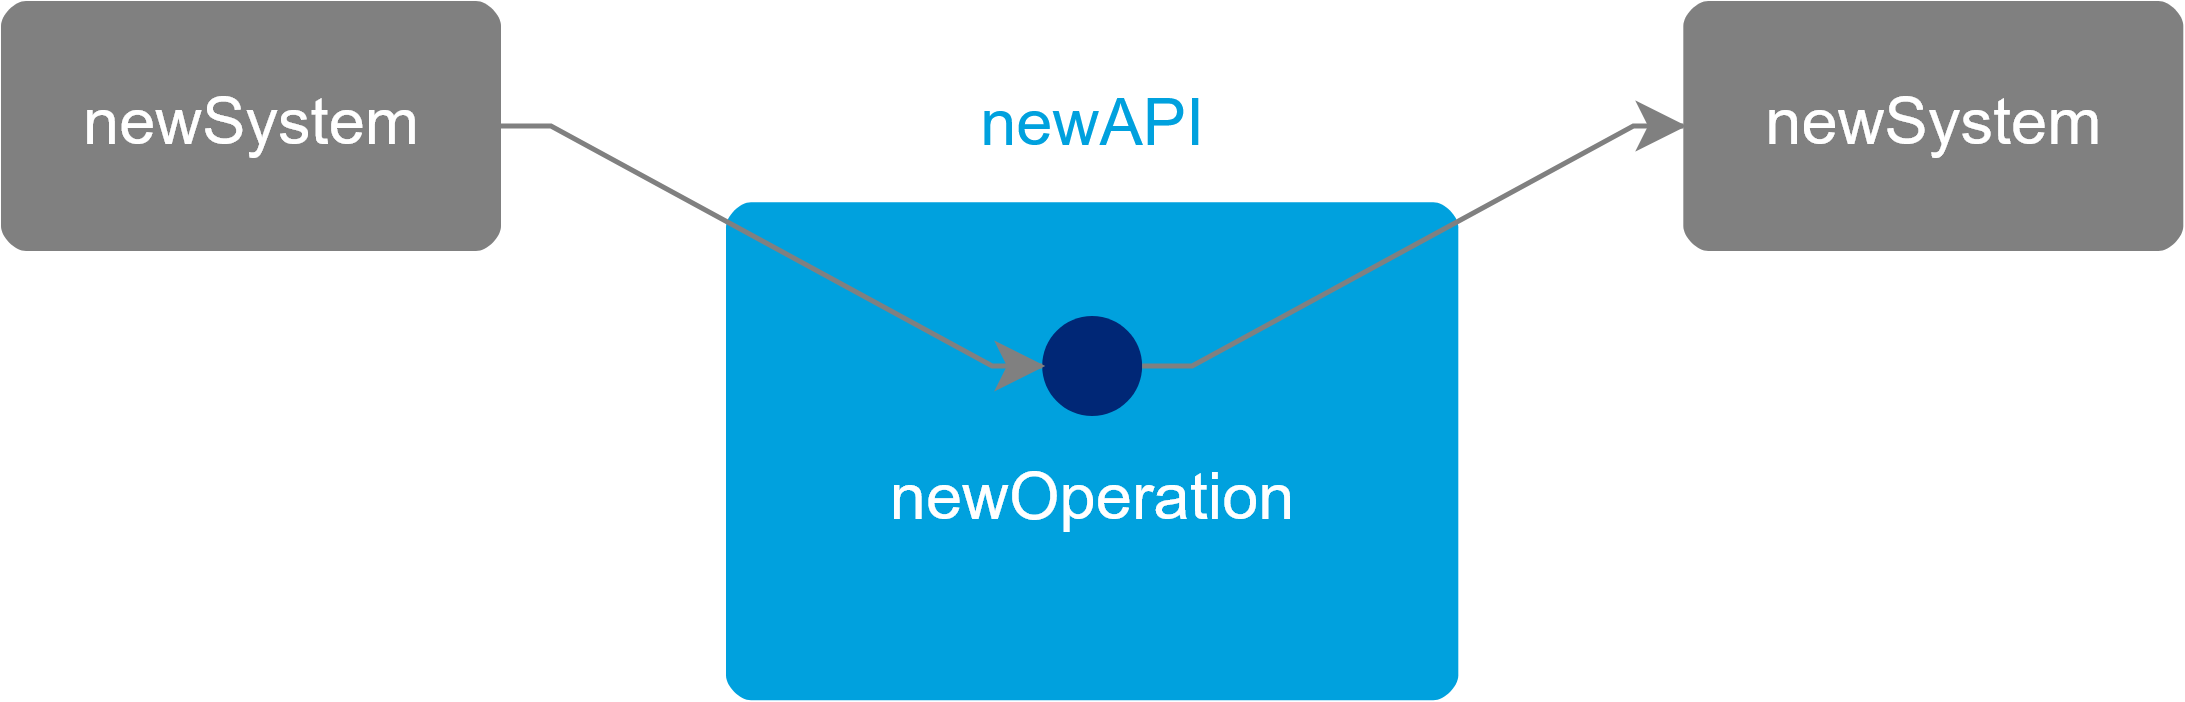
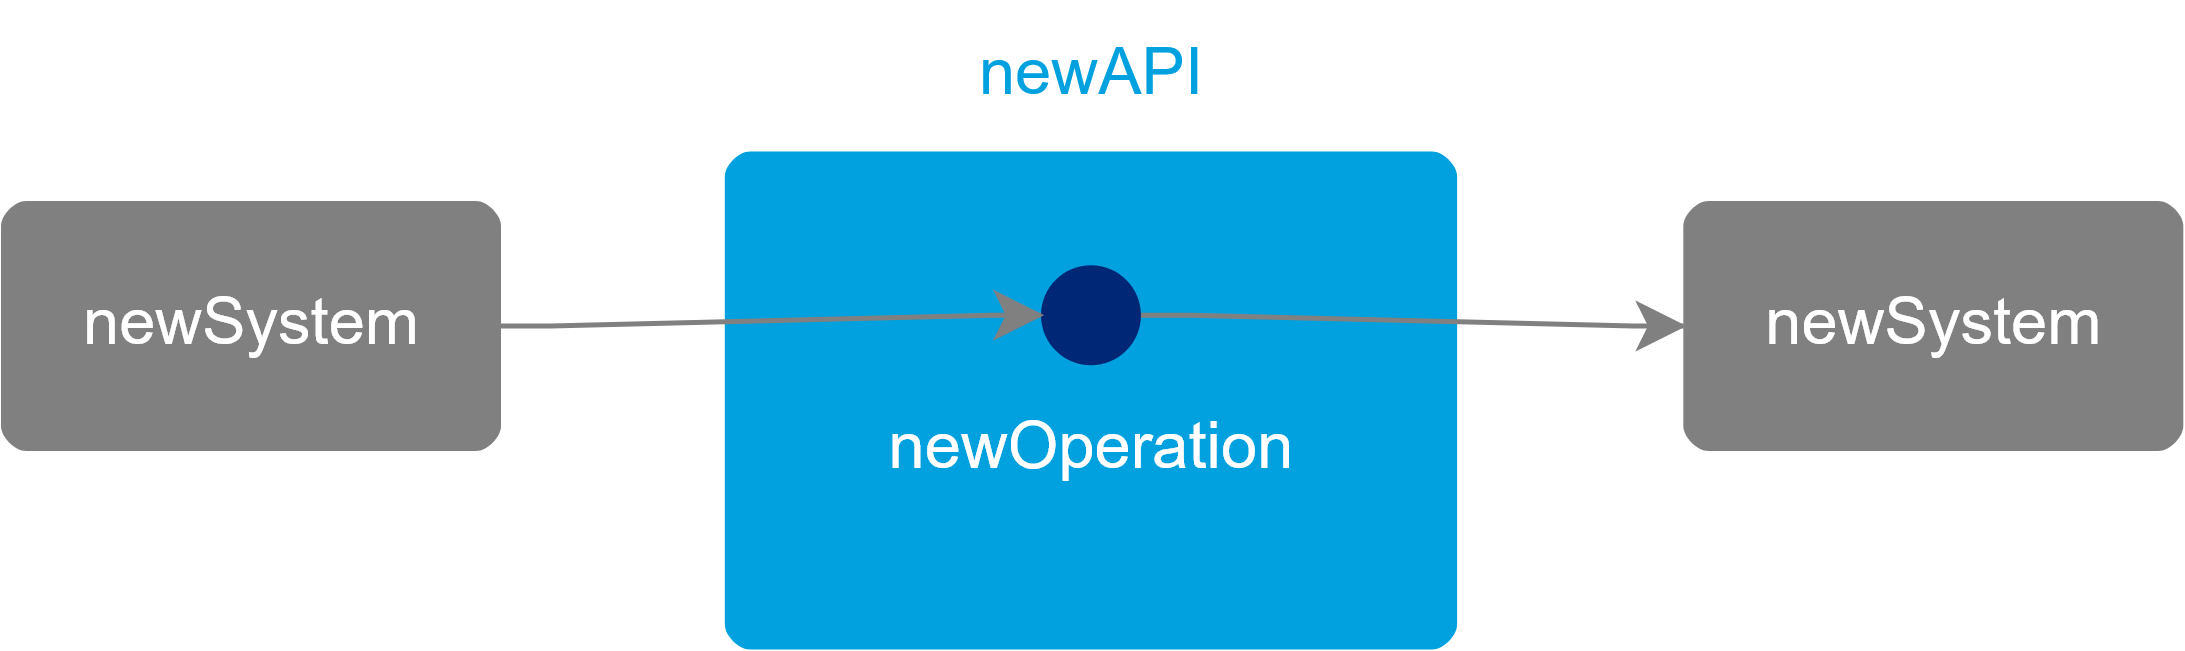
views working in image server

diff --git a/NodeServer/createDiagram.js b/NodeServer/createDiagram.js
@@ -1,30 +1,24 @@
-function createDiagram(view)
+function createDiagram(view, completed)
 {
-    console.log('viewing ' + view);
     var gojs = go.GraphObject.make;
     _diagram = gojs(go.Diagram, "myDiagramDiv",
     {
         "animationManager.isEnabled": false,
         //"undoManager.isEnabled": true  // enable undo & redo
         contentAlignment: go.Spot.Center,
-        LayoutCompleted: function(e) 
-        {
-        //     var dia = e.diagram;
-        //     dia.div.style.height = (dia.documentBounds.height + 24) + "px";
-        //     dia.div.style.width = (dia.documentBounds.width + 24) + "px";
-           
-            if (view)
-            {
-                console.log('viewing ' + view);
-                View.View(view);
-            }
-        },
-        // initialAutoScale: go.Diagram.UniformToFill,
-        layout: gojs(go.LayeredDigraphLayout,
-         {
-             setsPortSpots: false,
-             isOngoing: false
-         }),
+        //LayoutCompleted: function(e) 
+        //{
+        //     //var dia = e.diagram;
+        //     //dia.div.style.height = (dia.documentBounds.height + 24) + "px";
+        //     //dia.div.style.width = (dia.documentBounds.width + 24) + "px";
+        //    completed();
+        //}
+         //initialAutoScale: go.Diagram.UniformToFill,
+        //layout: gojs(go.LayeredDigraphLayout,
+        // {
+        //     setsPortSpots: false,
+        //     isOngoing: false
+        // }),
     });
 
     _diagram.groupTemplateMap.add("API", Template.api());

diff --git a/NodeServer/image.js b/NodeServer/image.js
@@ -26,13 +26,26 @@ async function generateImage(project, view)
 
     await page.addScriptTag({url: 'https://cdnjs.cloudflare.com/ajax/libs/gojs/1.8.7/go.js'});
     await page.addScriptTag({path: "./ts.js"});
-    await page.addScriptTag({path: "./createDiagram.js"});
-    await page.setContent('<div id="myDiagramDiv" style="border: solid 1px black; width:400px; height:400px"></div>');
+    await page.addScriptTag({ path: "./createDiagram.js" });
+    await page.setContent('<body style="width:100%;height:100%;padding:0;margin:0;overflow:hidden;"><div id="myDiagramDiv" style="background-color:white;position:absolute; width:100%;height:calc(100% - 56px);overflow:hidden;"></div></body>');
+    
 
-    const imageData = await page.evaluate((jsonString, view) => {
+    const imageData = await page.evaluate((jsonString, view) => 
+    {
+        View.Views = JSON.parse(jsonString).views;
+
+        if (!View.Views)
+        {
+            View.Views = [];
+        }
         var myDiagram = createDiagram(view);
+        Main._diagram = myDiagram;
 
         myDiagram.model = go.Model.fromJson(jsonString);
+        if (view)
+        {
+            View.View(view);
+        }
 
         return myDiagram.makeImageData(
         {
@@ -43,7 +56,7 @@ async function generateImage(project, view)
 
     const { buffer } = parseDataUrl(imageData);
     fs.writeFileSync('gojs-screenshot.png', buffer, 'base64');
-    await browser.close();
+    await browser.close();    
     return buffer;
 };
 

diff --git a/UI/View.ts b/UI/View.ts
@@ -114,14 +114,13 @@
     }
     export function View(name:string)
     {
-        console.log(Views);
         let view = Views.find(v => v.name == name);
         if (view)
         {
             currentViewData = view.viewData;
             currentViewName = view.name;
 
-            Util.showHideAll(Main._diagram, false, false);
+            //Util.showHideAll(Main._diagram, false, false);
             Main._diagram.nodes.each(function (n: go.Node) 
             {
                 let v = currentViewData.find(d => d.key == n.data.key);
@@ -130,8 +129,12 @@
                     n.visible = true;
                     n.location = new go.Point(v.location.x, v.location.y);
                 }
+                else
+                {
+                    n.visible = false;
+                }
             });
-            Main.includeLinksVisible();
+            //Main.includeLinksVisible();
         }
         else
         {

diff --git a/NodeServer/ts.js b/NodeServer/ts.js
@@ -1316,20 +1316,20 @@ var View;
     }
     View_1.GetURL = GetURL;
     function View(name) {
-        console.log(View_1.Views);
         let view = View_1.Views.find(v => v.name == name);
         if (view) {
             currentViewData = view.viewData;
             currentViewName = view.name;
-            Util.showHideAll(Main._diagram, false, false);
             Main._diagram.nodes.each(function (n) {
                 let v = currentViewData.find(d => d.key == n.data.key);
                 if (v) {
                     n.visible = true;
                     n.location = new go.Point(v.location.x, v.location.y);
                 }
+                else {
+                    n.visible = false;
+                }
             });
-            Main.includeLinksVisible();
         }
         else {
             console.log(name + " view not found");

diff --git a/UI/ts.js b/UI/ts.js
@@ -1316,20 +1316,20 @@ var View;
     }
     View_1.GetURL = GetURL;
     function View(name) {
-        console.log(View_1.Views);
         let view = View_1.Views.find(v => v.name == name);
         if (view) {
             currentViewData = view.viewData;
             currentViewName = view.name;
-            Util.showHideAll(Main._diagram, false, false);
             Main._diagram.nodes.each(function (n) {
                 let v = currentViewData.find(d => d.key == n.data.key);
                 if (v) {
                     n.visible = true;
                     n.location = new go.Point(v.location.x, v.location.y);
                 }
+                else {
+                    n.visible = false;
+                }
             });
-            Main.includeLinksVisible();
         }
         else {
             console.log(name + " view not found");
